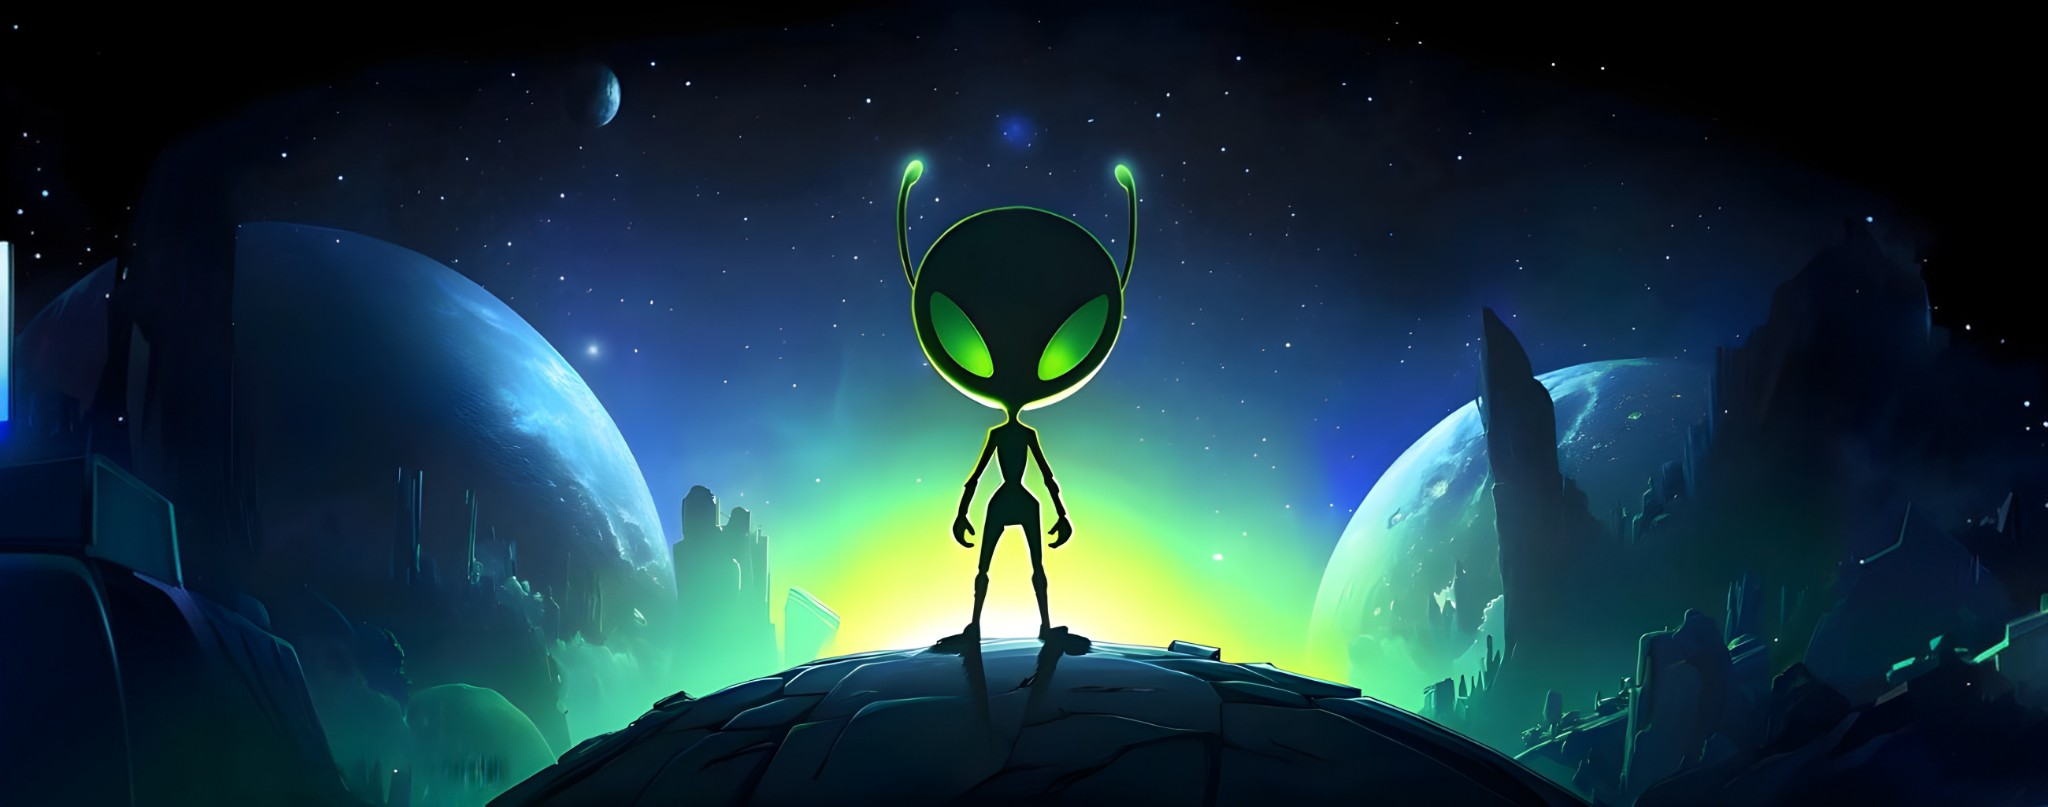
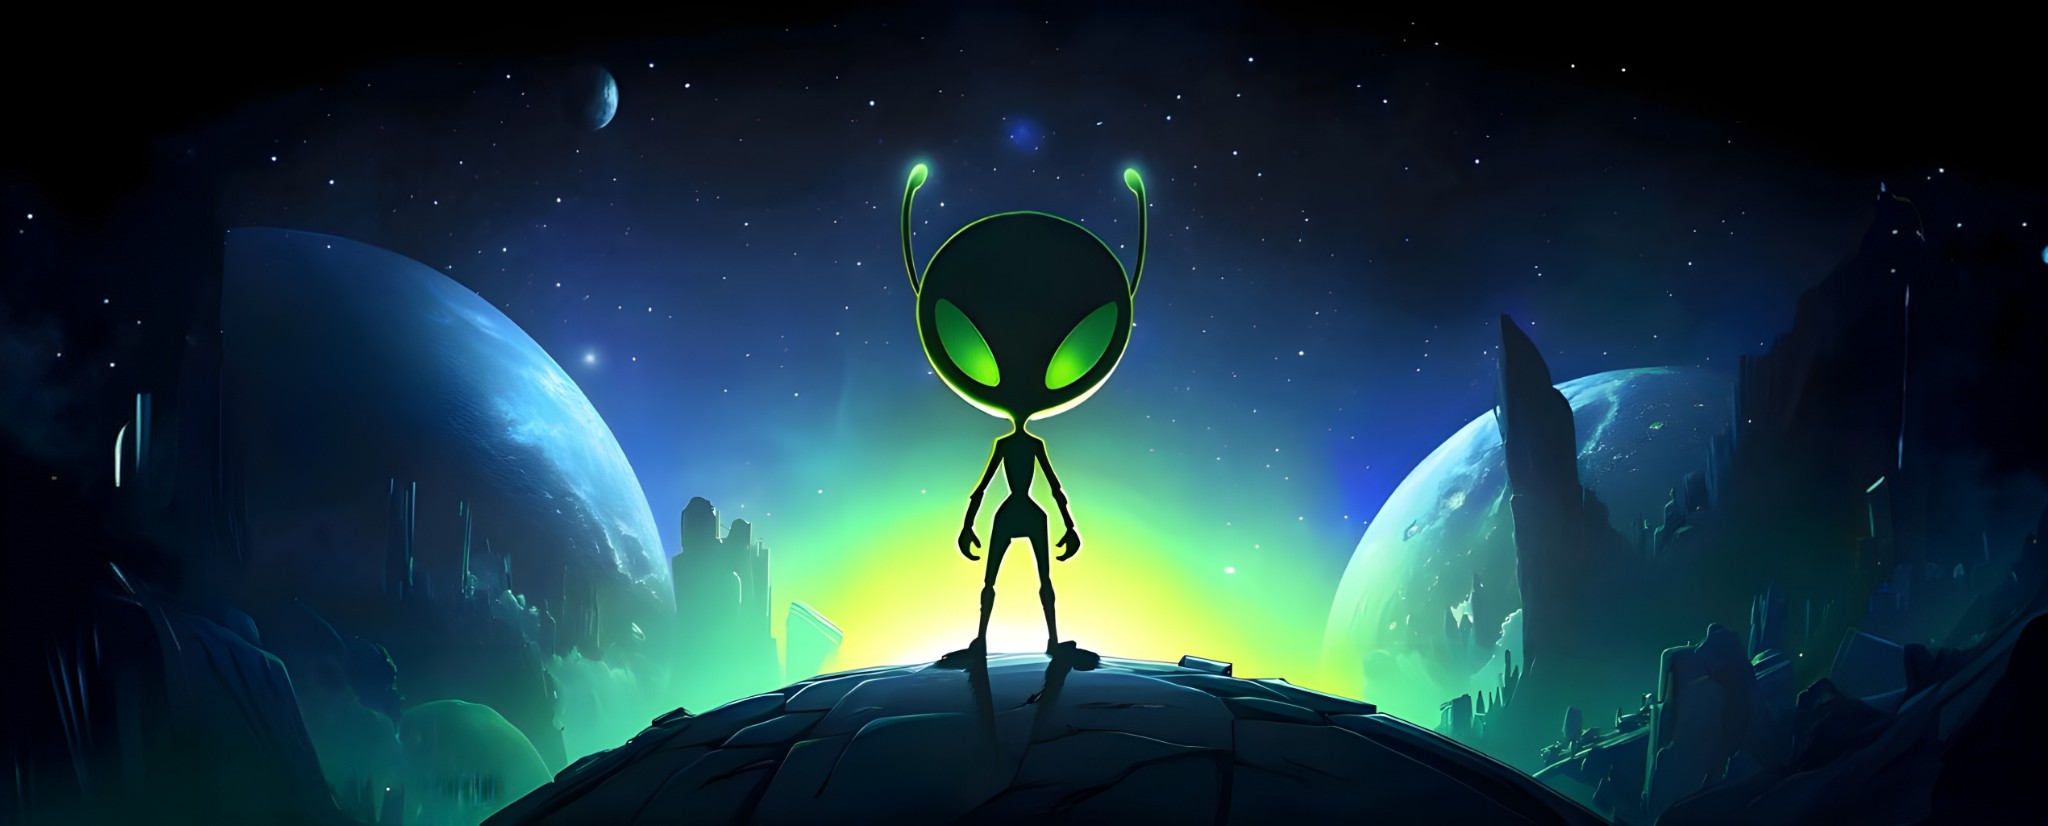
s

diff --git a/app/page.tsx b/app/page.tsx
@@ -43,16 +43,16 @@ export default function Home() {
         <Image
           src="/images/decals/shining-light-left.png"
           alt="light-left"
-          width={750}
-          height={750}
+          width={706}
+          height={755}
           quality={100}
           className="absolute top-[0] left-0"
         />
       <Image
           src="/images/decals/shining-light-right.png"
           alt="light-right"
-          width={750}
-          height={750}
+          width={706}
+          height={755}
           quality={100}
           className="absolute top-[0] right-0"
         />
@@ -116,7 +116,7 @@ export default function Home() {
                 <div className="inline-flex p-[1.1px] rounded-[8px] rotate-[-0.65deg] bg-gradient-to-br from-[#47CF47] to-[#2BC251]">
                   <Button
                     variant="ghost"
-                    className="w-[79px] h-[32px] px-[22px] py-[7.33px] rounded-[8px] bg-gradient-to-br from-[#47AD2E] to-[#008135] text-white text-[10px] font-[500] font-rubik"
+                    className="w-[79px] h-[32px] px-[22px] py-[7.33px] rounded-[8px] bg-gradient-to-br from-[#8ae849] to-[#5b9c2e] text-white text-[10px] font-[500] font-rubik"
                   >
                     Follow now
                   </Button>
@@ -159,7 +159,7 @@ export default function Home() {
                 <div className="inline-flex p-[1.1px] rounded-[8px] rotate-[-0.65deg] bg-gradient-to-br from-[#47CF47] to-[#2BC251]">
                   <Button
                     variant="ghost"
-                    className="w-[79px] h-[32px] px-[22px] py-[7.33px] rounded-[8px] bg-gradient-to-br from-[#47AD2E] to-[#008135] text-white text-[10px] font-[500] font-rubik"
+                    className="w-[79px] h-[32px] px-[22px] py-[7.33px] rounded-[8px] bg-gradient-to-br from-[#8ae849] to-[#5b9c2e] text-white text-[10px] font-[500] font-rubik"
                   >
                     Join now
                   </Button>
